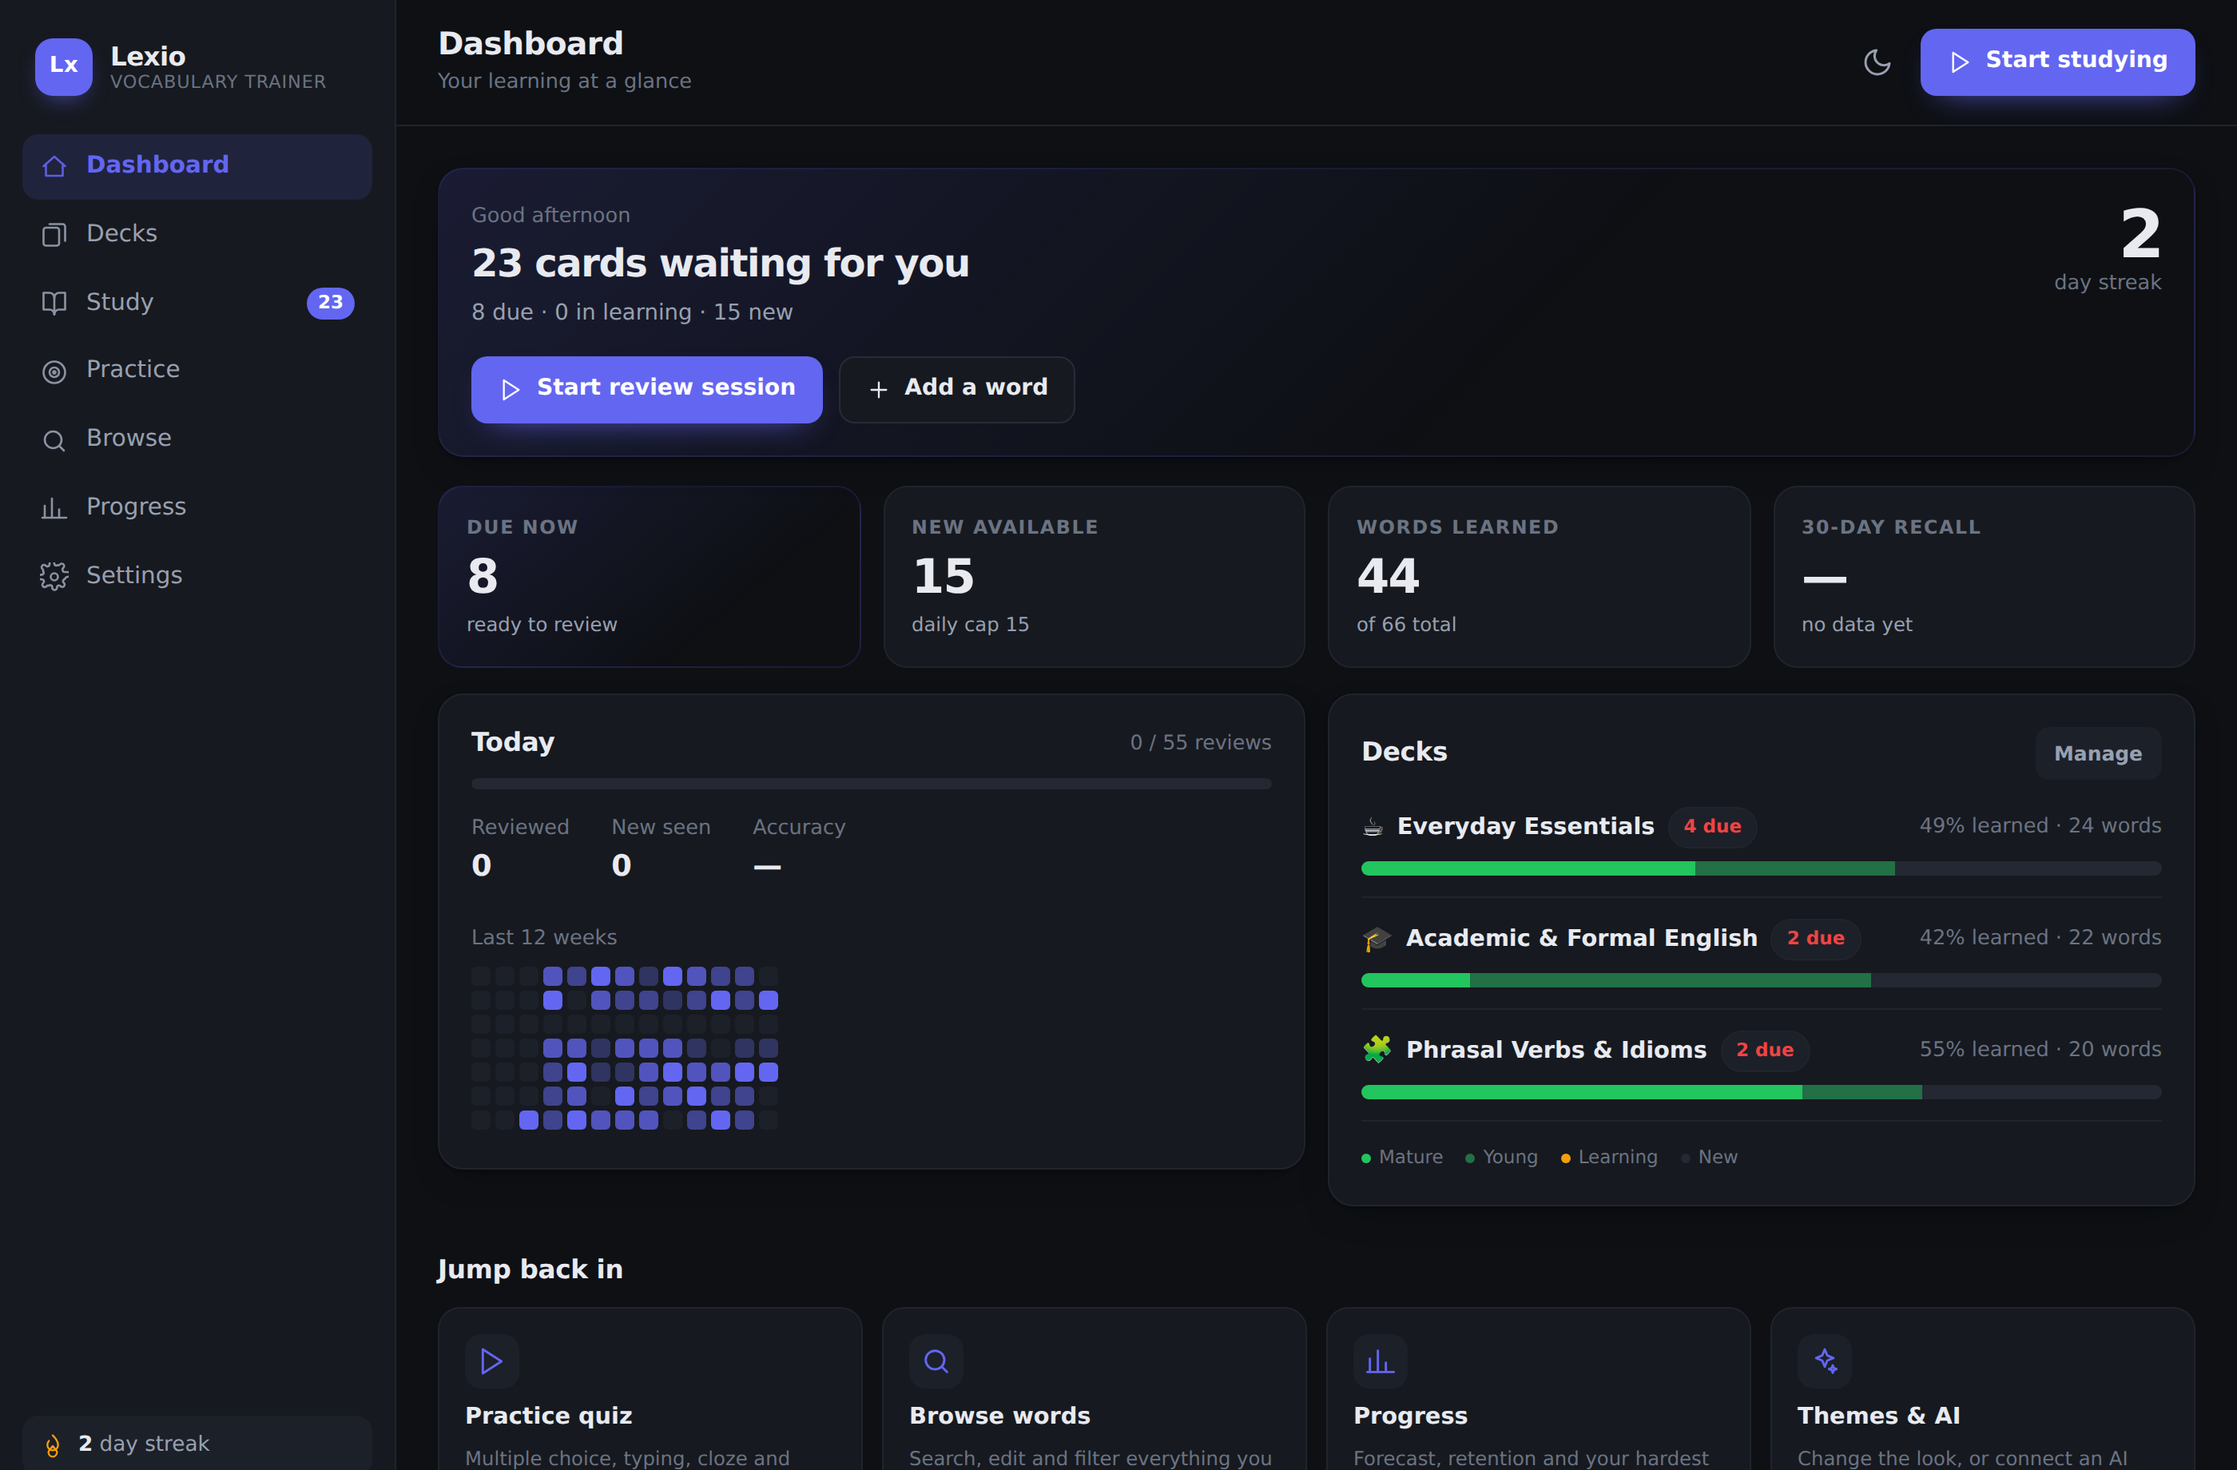
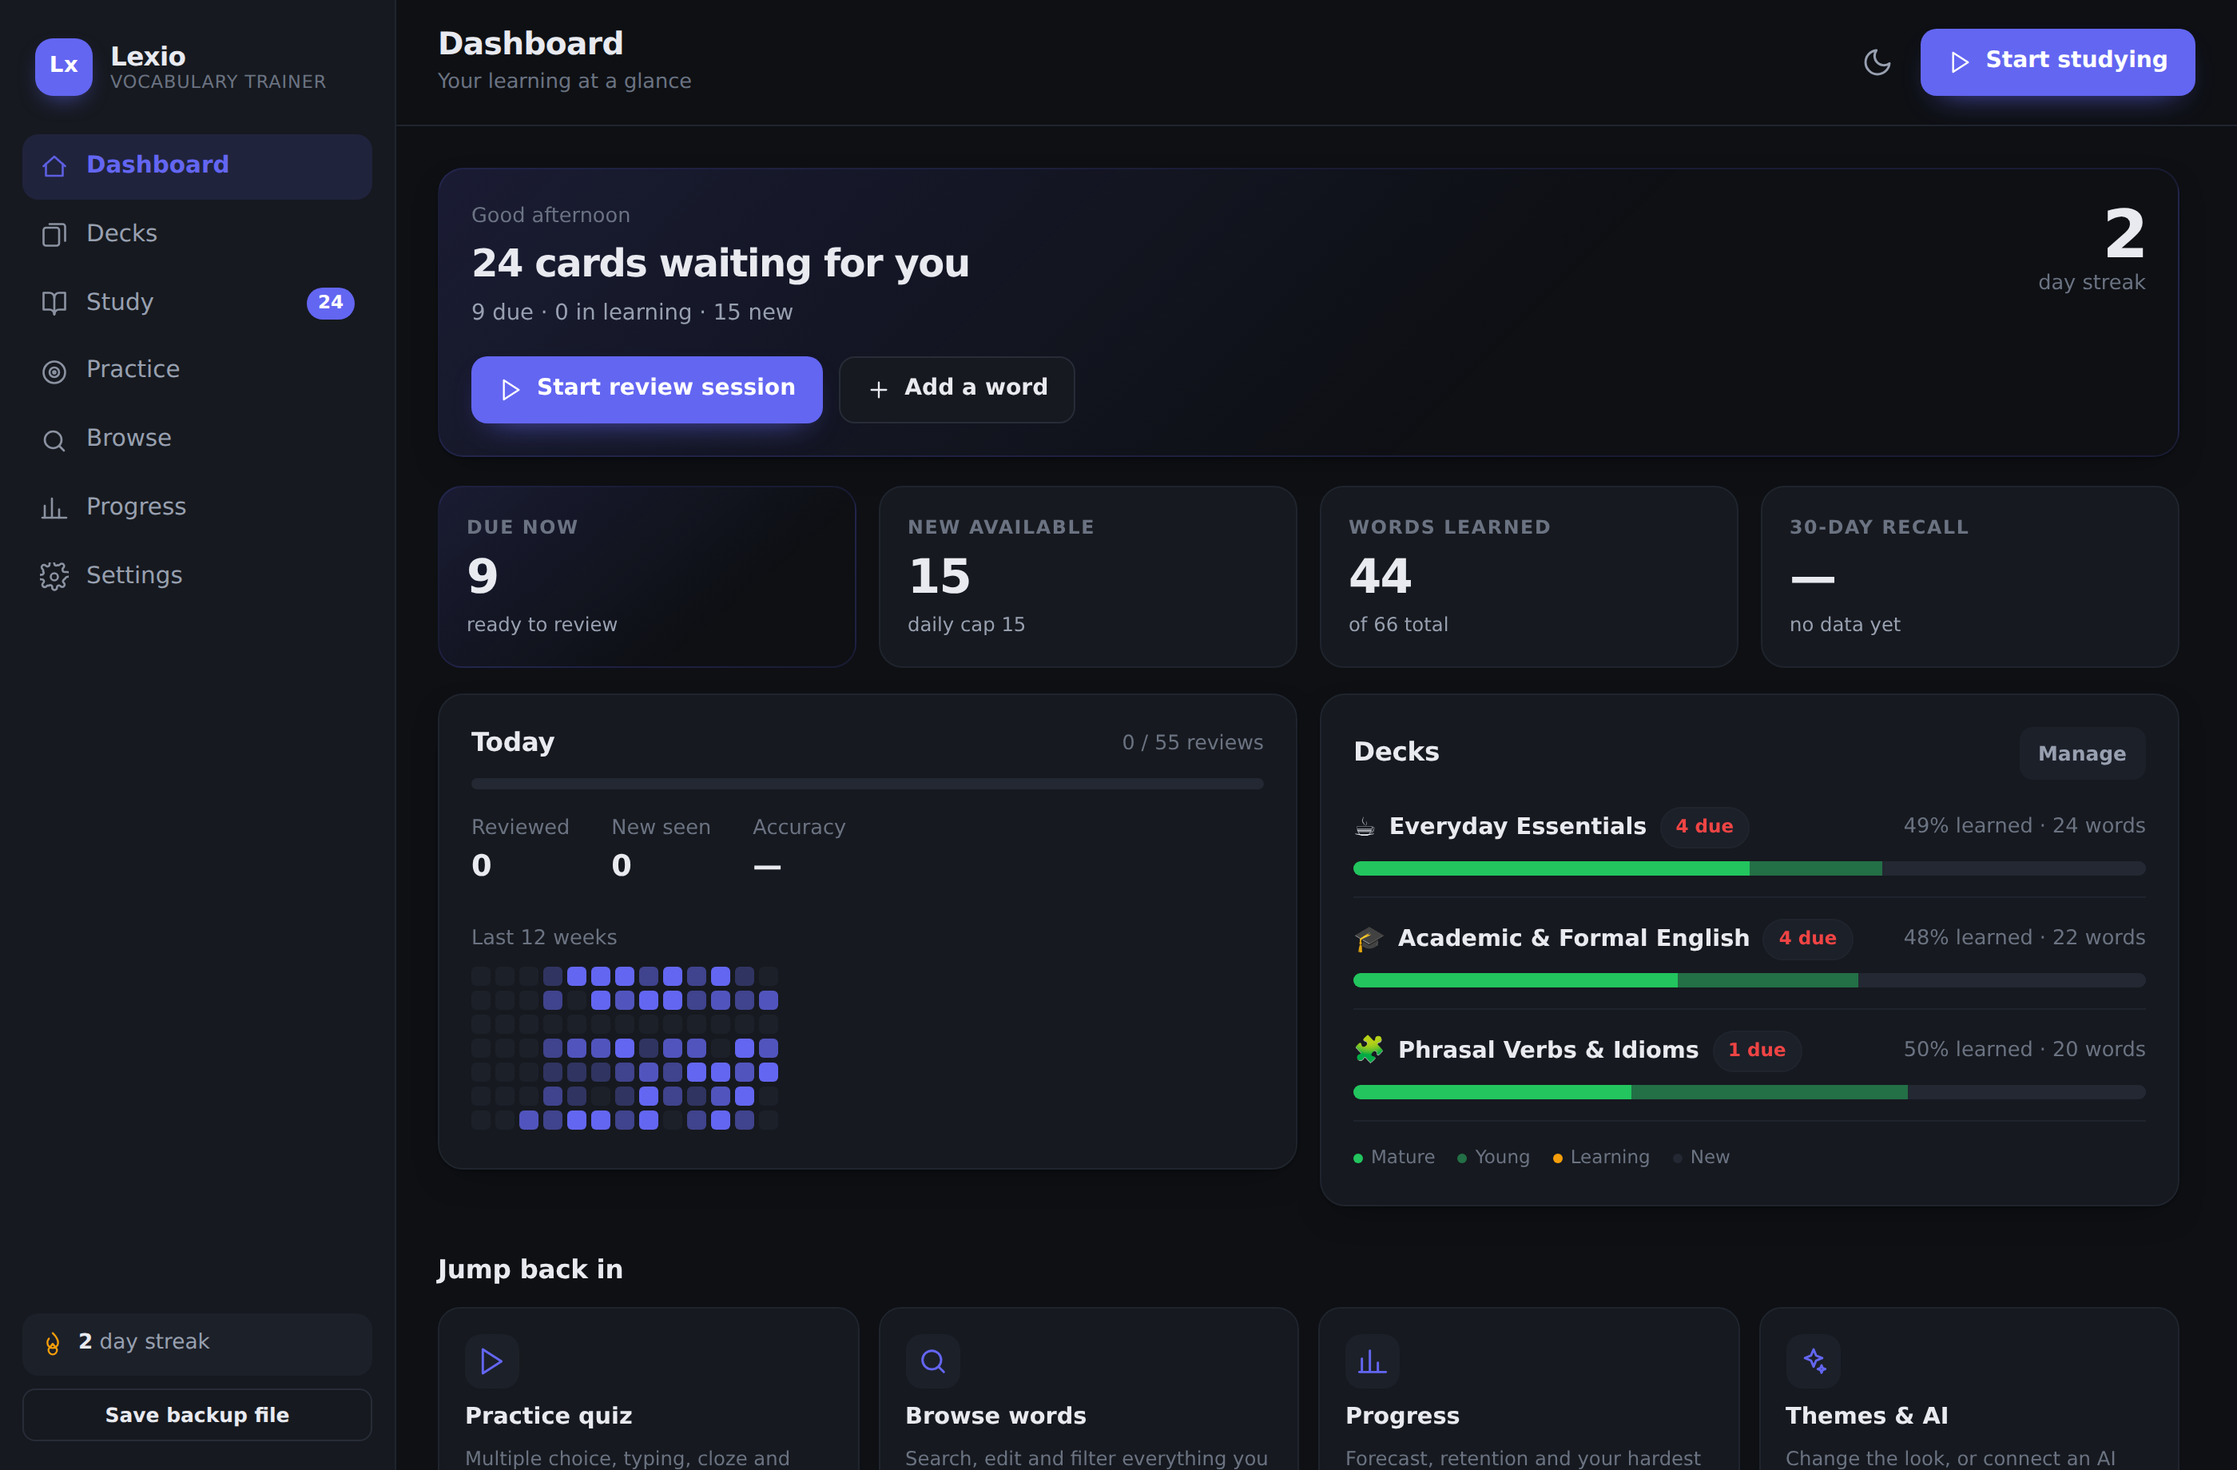
Fix unreachable page content and four bugs found in live testing
The main window could not scroll at all: .main and .scroll-area are a grid
child and a flex child, both of which default to min-height:auto, so they
grew to fit their content instead of clipping it. The scroll container never
overflowed, no scrollbar was drawn, and body{overflow:hidden} hid the rest —
on Browse that left 6457px of the page unreachable.

- Give the layout chain explicit min-height:0 so the content area overflows
  and scrolls; reserve a stable scrollbar gutter and give the thumb a colour
  that contrasts with the page (it was --surface-3, near-invisible on the
  dark themes)
- Wire up Page Up/Down, Home/End, the arrow keys and the space bar: the
  scrollable region is a div, so the browser does not do this for us
- Add a back-to-top button that appears once the page is scrolled
- Quitting a study session redrew the same card instead of the summary,
  because renderStudy tested queue.length before finished
- A finished session or quiz was replayed when the view was reopened later
- "Questions per practice round" in Settings was never read; practice used
  its own hard-coded 12. Round length now lives in the setting and both
  screens write to it
- Drop the leftover sidebar padding so a short window can still reach the
  bottom of the nav

Claude-Session: https://claude.ai/code/session_01LcNiDABD7WQmWKeryeHmw8

diff --git a/app.js b/app.js
@@ -113,6 +113,9 @@ let currentView = 'dashboard';
 let viewParams = {};
 
 function go(view, params) {
+  /* Leaving a finished session behind: start clean next time. */
+  if (currentView === 'study' && view !== 'study' && session && session.finished) session = null;
+  if (currentView === 'practice' && view !== 'practice' && quiz && quiz.finished) quiz = null;
   currentView = view; viewParams = params || {};
   $$('.nav-item').forEach(b => b.classList.toggle('is-active', b.dataset.view === view));
   $$('.view').forEach(v => v.classList.add('hidden'));
@@ -121,6 +124,7 @@ function go(view, params) {
   $('#viewSub').textContent = VIEW_META[view][1];
   $('#app').classList.remove('menu-open');
   $('#scrollArea').scrollTop = 0;
+  $('#toTop').classList.remove('show');
   render(view);
   refreshChrome();
 }
@@ -653,8 +657,10 @@ function aiDeckDialog() {
 let session = null;
 
 function renderStudy(host) {
-  if (session && session.queue.length) return drawStudyCard(host);
+  /* finished wins: quitting early leaves cards in the queue but must still
+     show the summary rather than redrawing the card. */
   if (session && session.finished) return drawStudySummary(host);
+  if (session && session.queue.length) return drawStudyCard(host);
   drawStudySetup(host);
 }
 
@@ -910,7 +916,9 @@ const MODES = [
 ];
 
 let quiz = null;
-let quizSetup = { mode: 'mc-meaning', deckId: '', scope: 'all', count: 12 };
+let quizSetup = { mode: 'mc-meaning', deckId: '', scope: 'all' };
+/* Round length lives in Settings → Study rules so both screens agree. */
+function roundLength() { return Store.state.settings.sessionLength || 12; }
 
 function renderPractice(host) {
   if (quiz && quiz.finished) return drawQuizResults(host);
@@ -933,7 +941,7 @@ function drawPracticeSetup(host) {
       '</div>' +
       '<div class="card">' +
         '<div class="field"><label>Questions per round</label><select id="pCount">' +
-          [5, 10, 12, 20, 30, 50].map(n => '<option' + (n === quizSetup.count ? ' selected' : '') + '>' + n + '</option>').join('') +
+          [5, 10, 12, 20, 30, 50].map(n => '<option' + (n === roundLength() ? ' selected' : '') + '>' + n + '</option>').join('') +
         '</select></div>' +
         '<div class="row between" style="margin-top:4px">' +
           '<span class="muted">' + pool.length + ' word' + (pool.length === 1 ? '' : 's') + ' available</span>' +
@@ -972,7 +980,9 @@ function drawPracticeSetup(host) {
   };
   $('#pDeck').onchange = (e) => { quizSetup.deckId = e.target.value; render('practice'); };
   $('#pScope').onchange = (e) => { quizSetup.scope = e.target.value; render('practice'); };
-  $('#pCount').onchange = (e) => { quizSetup.count = parseInt(e.target.value, 10); };
+  $('#pCount').onchange = (e) => {
+    Store.state.settings.sessionLength = parseInt(e.target.value, 10) || 12; Store.save();
+  };
   $('#pSrs').onchange = (e) => { Store.state.settings.quizAffectsSrs = e.target.checked; Store.save(); };
 }
 
@@ -1061,10 +1071,11 @@ async function startQuiz() {
   if (pool.length < minWordsFor(mode)) {
     return toast(pool.length ? 'This drill needs at least two words' : 'No words match these filters', 'err');
   }
+  const count = roundLength();
   quiz = { mode: mode, i: 0, items: [], results: [], correct: 0, startedAt: Date.now(), state: 'idle' };
 
   if (mode === 'ai-quiz') {
-    const cards = sample(pool, Math.min(quizSetup.count, pool.length, 12));
+    const cards = sample(pool, Math.min(count, pool.length, 12));
     $('#view-practice').innerHTML = '<div class="quiz-wrap"><div class="card"><div class="ai-thinking">' +
       ICONS.loader + 'The AI is writing ' + cards.length + ' questions…</div></div></div>';
     try {
@@ -1081,7 +1092,7 @@ async function startQuiz() {
       quiz = null; toast(err.message, 'err'); return render('practice');
     }
   } else {
-    quiz.items = buildQuestions(mode, pool, quizSetup.count);
+    quiz.items = buildQuestions(mode, pool, count);
   }
   if (!quiz.items.length) { quiz = null; toast('Could not build questions from these words', 'err'); return render('practice'); }
   render('practice');
@@ -1895,6 +1906,17 @@ function boot() {
   };
   $('#modalHost').onclick = (e) => { if (e.target.closest('[data-close]')) closeModal(); };
 
+  const sa = $('#scrollArea'), toTop = $('#toTop');
+  sa.addEventListener('scroll', () => {
+    toTop.classList.toggle('show', sa.scrollTop > 420);
+  }, { passive: true });
+  toTop.onclick = () => {
+    /* focus() must come first and skip its own scroll, otherwise it aborts
+       the smooth scroll we are about to start. */
+    try { sa.focus({ preventScroll: true }); } catch (e) { }
+    sa.scrollTo({ top: 0, behavior: 'smooth' });
+  };
+
   document.addEventListener('keydown', onKey);
   window.addEventListener('beforeunload', () => Store.saveNow());
 
@@ -1908,6 +1930,29 @@ function boot() {
   if (Store.state.log.length > 60 && age > 21 * 86400000) {
     setTimeout(() => toast('It has been a while since your last backup — Settings → Download backup.', 'info'), 3000);
   }
+}
+
+/* The scrollable region is a div, so Page Up/Down, Home/End, the arrows and
+   the space bar have to be wired up by hand — the browser only does this for
+   the document itself. */
+function scrollByKey(e) {
+  const sa = $('#scrollArea');
+  if (!sa || sa.scrollHeight <= sa.clientHeight) return false;
+  const page = Math.max(140, sa.clientHeight - 70);
+  let delta;
+  switch (e.key) {
+    case 'PageDown': delta = page; break;
+    case 'PageUp': delta = -page; break;
+    case 'ArrowDown': delta = 90; break;
+    case 'ArrowUp': delta = -90; break;
+    case ' ': delta = e.shiftKey ? -page : page; break;
+    case 'Home': sa.scrollTop = 0; e.preventDefault(); return true;
+    case 'End': sa.scrollTop = sa.scrollHeight; e.preventDefault(); return true;
+    default: return false;
+  }
+  sa.scrollTop += delta;
+  e.preventDefault();
+  return true;
 }
 
 function onKey(e) {
@@ -1950,6 +1995,7 @@ function onKey(e) {
     return;
   }
 
+  if (scrollByKey(e)) return;
   if (e.key.toLowerCase() === 'n') { e.preventDefault(); return cardEditor(null); }
   const jump = { d: 'dashboard', k: 'decks', s: 'study', p: 'practice', b: 'browse', g: 'stats', ',': 'settings' }[e.key.toLowerCase()];
   if (jump) go(jump, {});

diff --git a/styles.css b/styles.css
@@ -107,17 +107,25 @@ svg{ width:20px; height:20px; fill:none; stroke:currentColor; stroke-width:1.75;
 ::selection{ background:var(--accent-soft); }
 
 /* Scrollbars */
-*::-webkit-scrollbar{ width:10px; height:10px; }
-*::-webkit-scrollbar-thumb{ background:var(--surface-3); border-radius:10px; border:3px solid transparent; background-clip:content-box; }
-*::-webkit-scrollbar-thumb:hover{ background:var(--text-faint); background-clip:content-box; }
+/* Chrome honours the standard properties and ignores ::-webkit-scrollbar once
+   they are set, so the standard ones carry the design and the webkit rules are
+   only a fallback for older browsers. The thumb has to contrast with the page
+   background or it reads as "there is no scrollbar". */
+*{ scrollbar-width:thin; scrollbar-color:var(--text-faint) transparent; }
+*::-webkit-scrollbar{ width:12px; height:12px; }
+*::-webkit-scrollbar-thumb{ background:var(--text-faint); border-radius:10px;
+  border:3px solid transparent; background-clip:content-box; min-height:48px; }
+*::-webkit-scrollbar-thumb:hover{ background:var(--text-dim); background-clip:content-box; }
 *::-webkit-scrollbar-track{ background:transparent; }
 
 /* ---------- Layout ------------------------------------------------------ */
-.app{ display:grid; grid-template-columns:248px 1fr; height:100vh; height:100dvh; }
+.app{ display:grid; grid-template-columns:248px 1fr; height:100vh; height:100dvh;
+  min-height:0; overflow:hidden; }
 
 .sidebar{
   display:flex; flex-direction:column; gap:6px; padding:18px 14px;
-  background:var(--surface); border-right:1px solid var(--border-soft); min-width:0;
+  background:var(--surface); border-right:1px solid var(--border-soft);
+  min-width:0; min-height:0; overflow-y:auto; overflow-x:hidden;
 }
 .brand{ display:flex; align-items:center; gap:11px; padding:6px 8px 18px; }
 .brand-mark{
@@ -154,9 +162,9 @@ svg{ width:20px; height:20px; fill:none; stroke:currentColor; stroke-width:1.75;
 .streak-chip svg{ width:16px; height:16px; color:var(--warn); }
 .streak-chip b{ color:var(--text); }
 
-.main{ display:flex; flex-direction:column; min-width:0; background:var(--bg); }
+.main{ display:flex; flex-direction:column; min-width:0; min-height:0; background:var(--bg); }
 .topbar{
-  display:flex; align-items:center; gap:14px; padding:16px 26px;
+  display:flex; align-items:center; gap:14px; padding:16px 26px; flex:none;
   border-bottom:1px solid var(--border-soft); background:var(--bg);
 }
 .topbar-title{ min-width:0; flex:1; }
@@ -164,8 +172,10 @@ svg{ width:20px; height:20px; fill:none; stroke:currentColor; stroke-width:1.75;
 .topbar-title p{ font-size:.8rem; color:var(--text-faint); margin-top:2px; }
 .topbar-actions{ display:flex; align-items:center; gap:9px; }
 
-.scroll-area{ flex:1; overflow-y:auto; overflow-x:hidden; scroll-behavior:smooth; }
-.view{ padding:26px; max-width:1180px; margin:0 auto; animation:fade .28s ease; }
+.scroll-area{ flex:1 1 0; min-height:0; overflow-y:scroll; overflow-x:hidden;
+  overscroll-behavior:contain; -webkit-overflow-scrolling:touch;
+  scrollbar-gutter:stable; outline:none; }
+.view{ padding:26px 26px 48px; max-width:1180px; margin:0 auto; animation:fade .28s ease; }
 @keyframes fade{ from{opacity:0; transform:translateY(6px);} to{opacity:1; transform:none;} }
 
 /* ---------- Buttons ----------------------------------------------------- */
@@ -476,7 +486,16 @@ select{ cursor:pointer; appearance:none;
 .modal-foot{ display:flex; justify-content:flex-end; gap:9px; padding:14px 20px; border-top:1px solid var(--border-soft); flex-wrap:wrap; }
 .modal-foot:empty{ display:none; }
 
-.toast-wrap{ position:fixed; bottom:22px; right:22px; z-index:80; display:flex; flex-direction:column; gap:9px; align-items:flex-end; }
+.to-top{
+  position:fixed; right:22px; bottom:22px; z-index:70; width:42px; height:42px; border-radius:50%;
+  display:grid; place-items:center; cursor:pointer; border:1px solid var(--border);
+  background:var(--surface); color:var(--text-dim); box-shadow:var(--shadow-lg);
+  opacity:0; transform:translateY(12px) scale(.9); pointer-events:none; transition:.2s;
+}
+.to-top.show{ opacity:1; transform:none; pointer-events:auto; }
+.to-top:hover{ color:var(--accent); border-color:var(--accent); }
+
+.toast-wrap{ position:fixed; bottom:22px; right:80px; z-index:80; display:flex; flex-direction:column; gap:9px; align-items:flex-end; }
 .toast{
   display:flex; align-items:center; gap:10px; padding:11px 16px; border-radius:12px;
   background:var(--surface); border:1px solid var(--border); box-shadow:var(--shadow-lg);
@@ -509,7 +528,7 @@ kbd{
   .app.menu-open .sidebar{ transform:none; }
   .app.menu-open ~ .scrim{ display:block; position:fixed; inset:0; background:rgba(0,0,0,.5); z-index:45; }
   .only-mobile{ display:grid; }
-  .view{ padding:18px 15px; }
+  .view{ padding:18px 15px 40px; }
   .topbar{ padding:13px 15px; }
   .topbar-actions .primary-btn span{ display:none; }
   .topbar-actions .primary-btn{ padding:9px 11px; }
@@ -519,7 +538,8 @@ kbd{
   .flashcard{ padding:26px 20px; min-height:280px; }
   .fc-term{ font-size:1.85rem; }
   .rate-row{ grid-template-columns:repeat(2,1fr); }
-  .toast-wrap{ left:15px; right:15px; bottom:15px; align-items:stretch; }
+  .toast-wrap{ left:15px; right:15px; bottom:72px; align-items:stretch; }
+  .to-top{ right:15px; bottom:15px; }
   .toast{ max-width:none; }
 }
 @media (prefers-reduced-motion:reduce){

diff --git a/index.html b/index.html
@@ -83,7 +83,7 @@
       </div>
     </header>
 
-    <div class="scroll-area" id="scrollArea">
+    <div class="scroll-area" id="scrollArea" tabindex="0" role="region" aria-label="Page content">
       <section class="view" id="view-dashboard"></section>
       <section class="view hidden" id="view-decks"></section>
       <section class="view hidden" id="view-study"></section>
@@ -111,6 +111,10 @@
     <footer class="modal-foot" id="modalFoot"></footer>
   </div>
 </div>
+
+<button class="to-top" id="toTop" aria-label="Back to top" title="Back to top">
+  <svg viewBox="0 0 24 24"><path d="M12 19V5"/><path d="M5 12l7-7 7 7"/></svg>
+</button>
 
 <div class="toast-wrap" id="toastWrap"></div>
 

diff --git a/README.md b/README.md
@@ -195,6 +195,12 @@ Yine de bu dosyaları başkasıyla paylaşacaksan anahtarını önce Settings'te
 | `N` | Yeni kelime ekle |
 | `Esc` | Pencereyi kapat / seansı bitir |
 | `D` `K` `S` `P` `B` `G` | Ekranlar arası geçiş |
+| `PageUp` `PageDown` | Sayfayı yukarı/aşağı kaydır |
+| `Home` `End` | Sayfanın başına/sonuna git |
+| `↑` `↓` | Satır satır kaydır |
+
+Uzun sayfalarda sağda kaydırma çubuğu çıkar; aşağı indiğinde sağ altta
+başa dönmek için yuvarlak bir düğme belirir.
 
 ---
 
